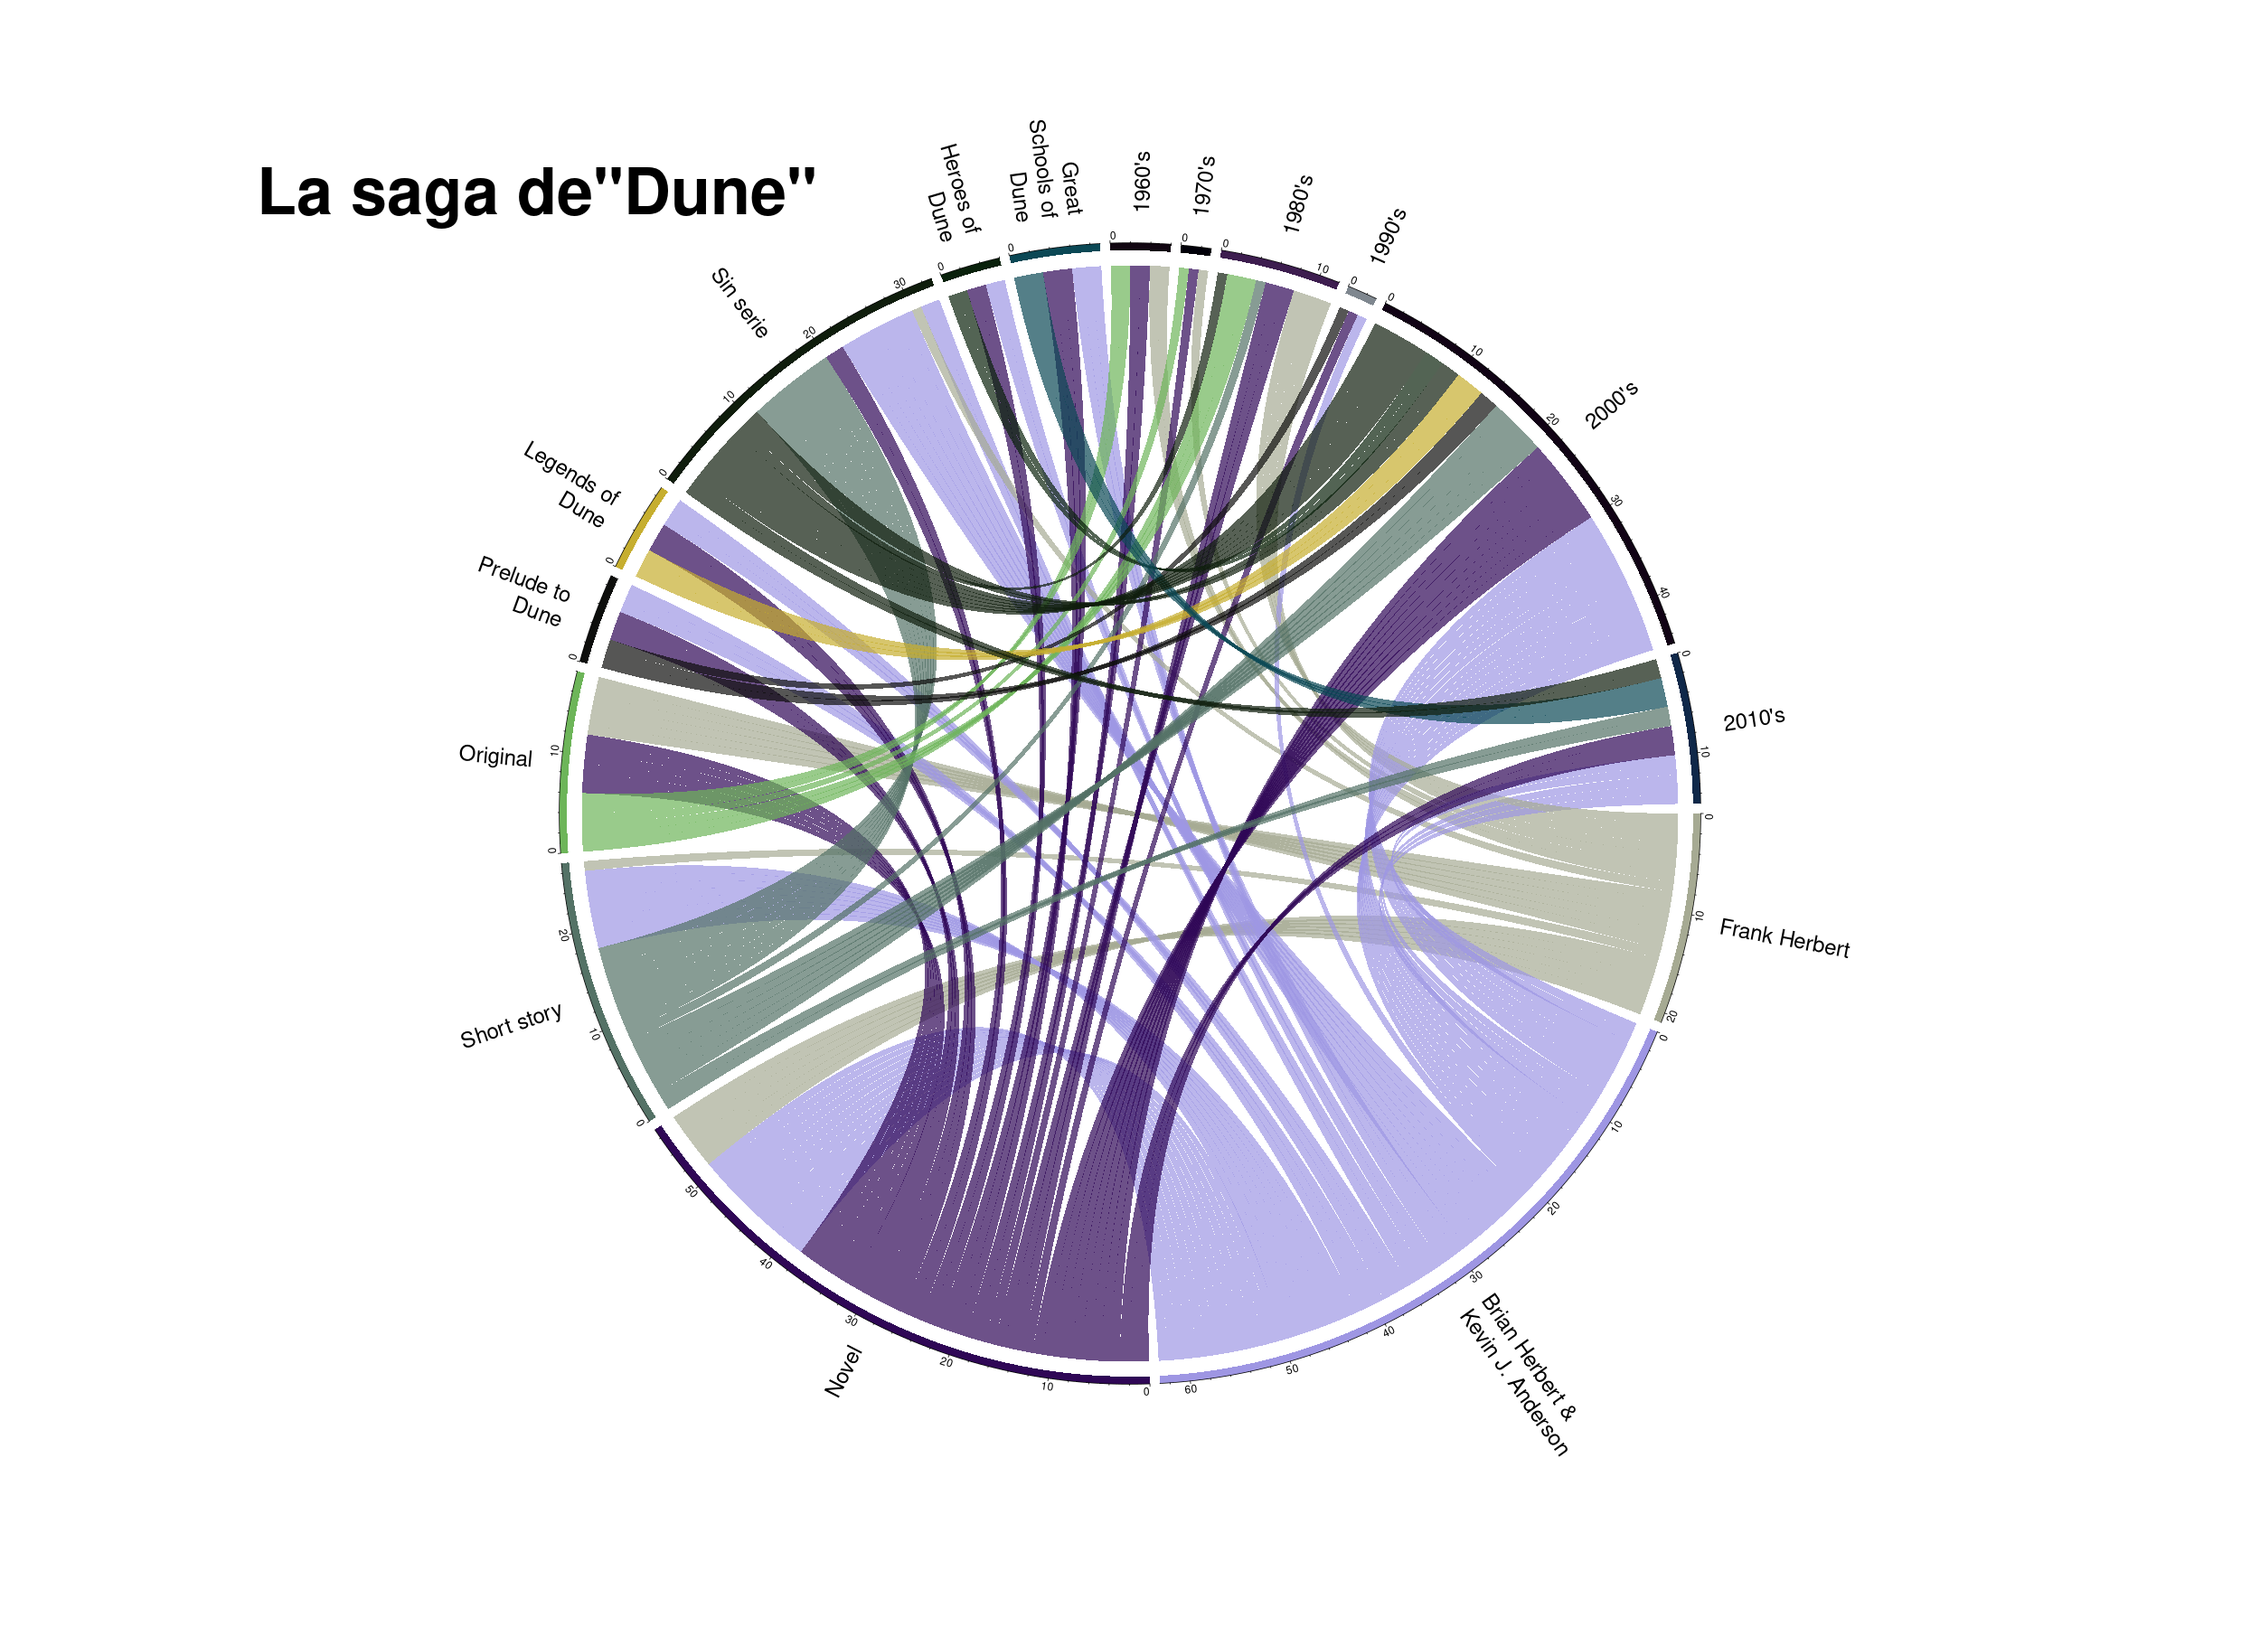
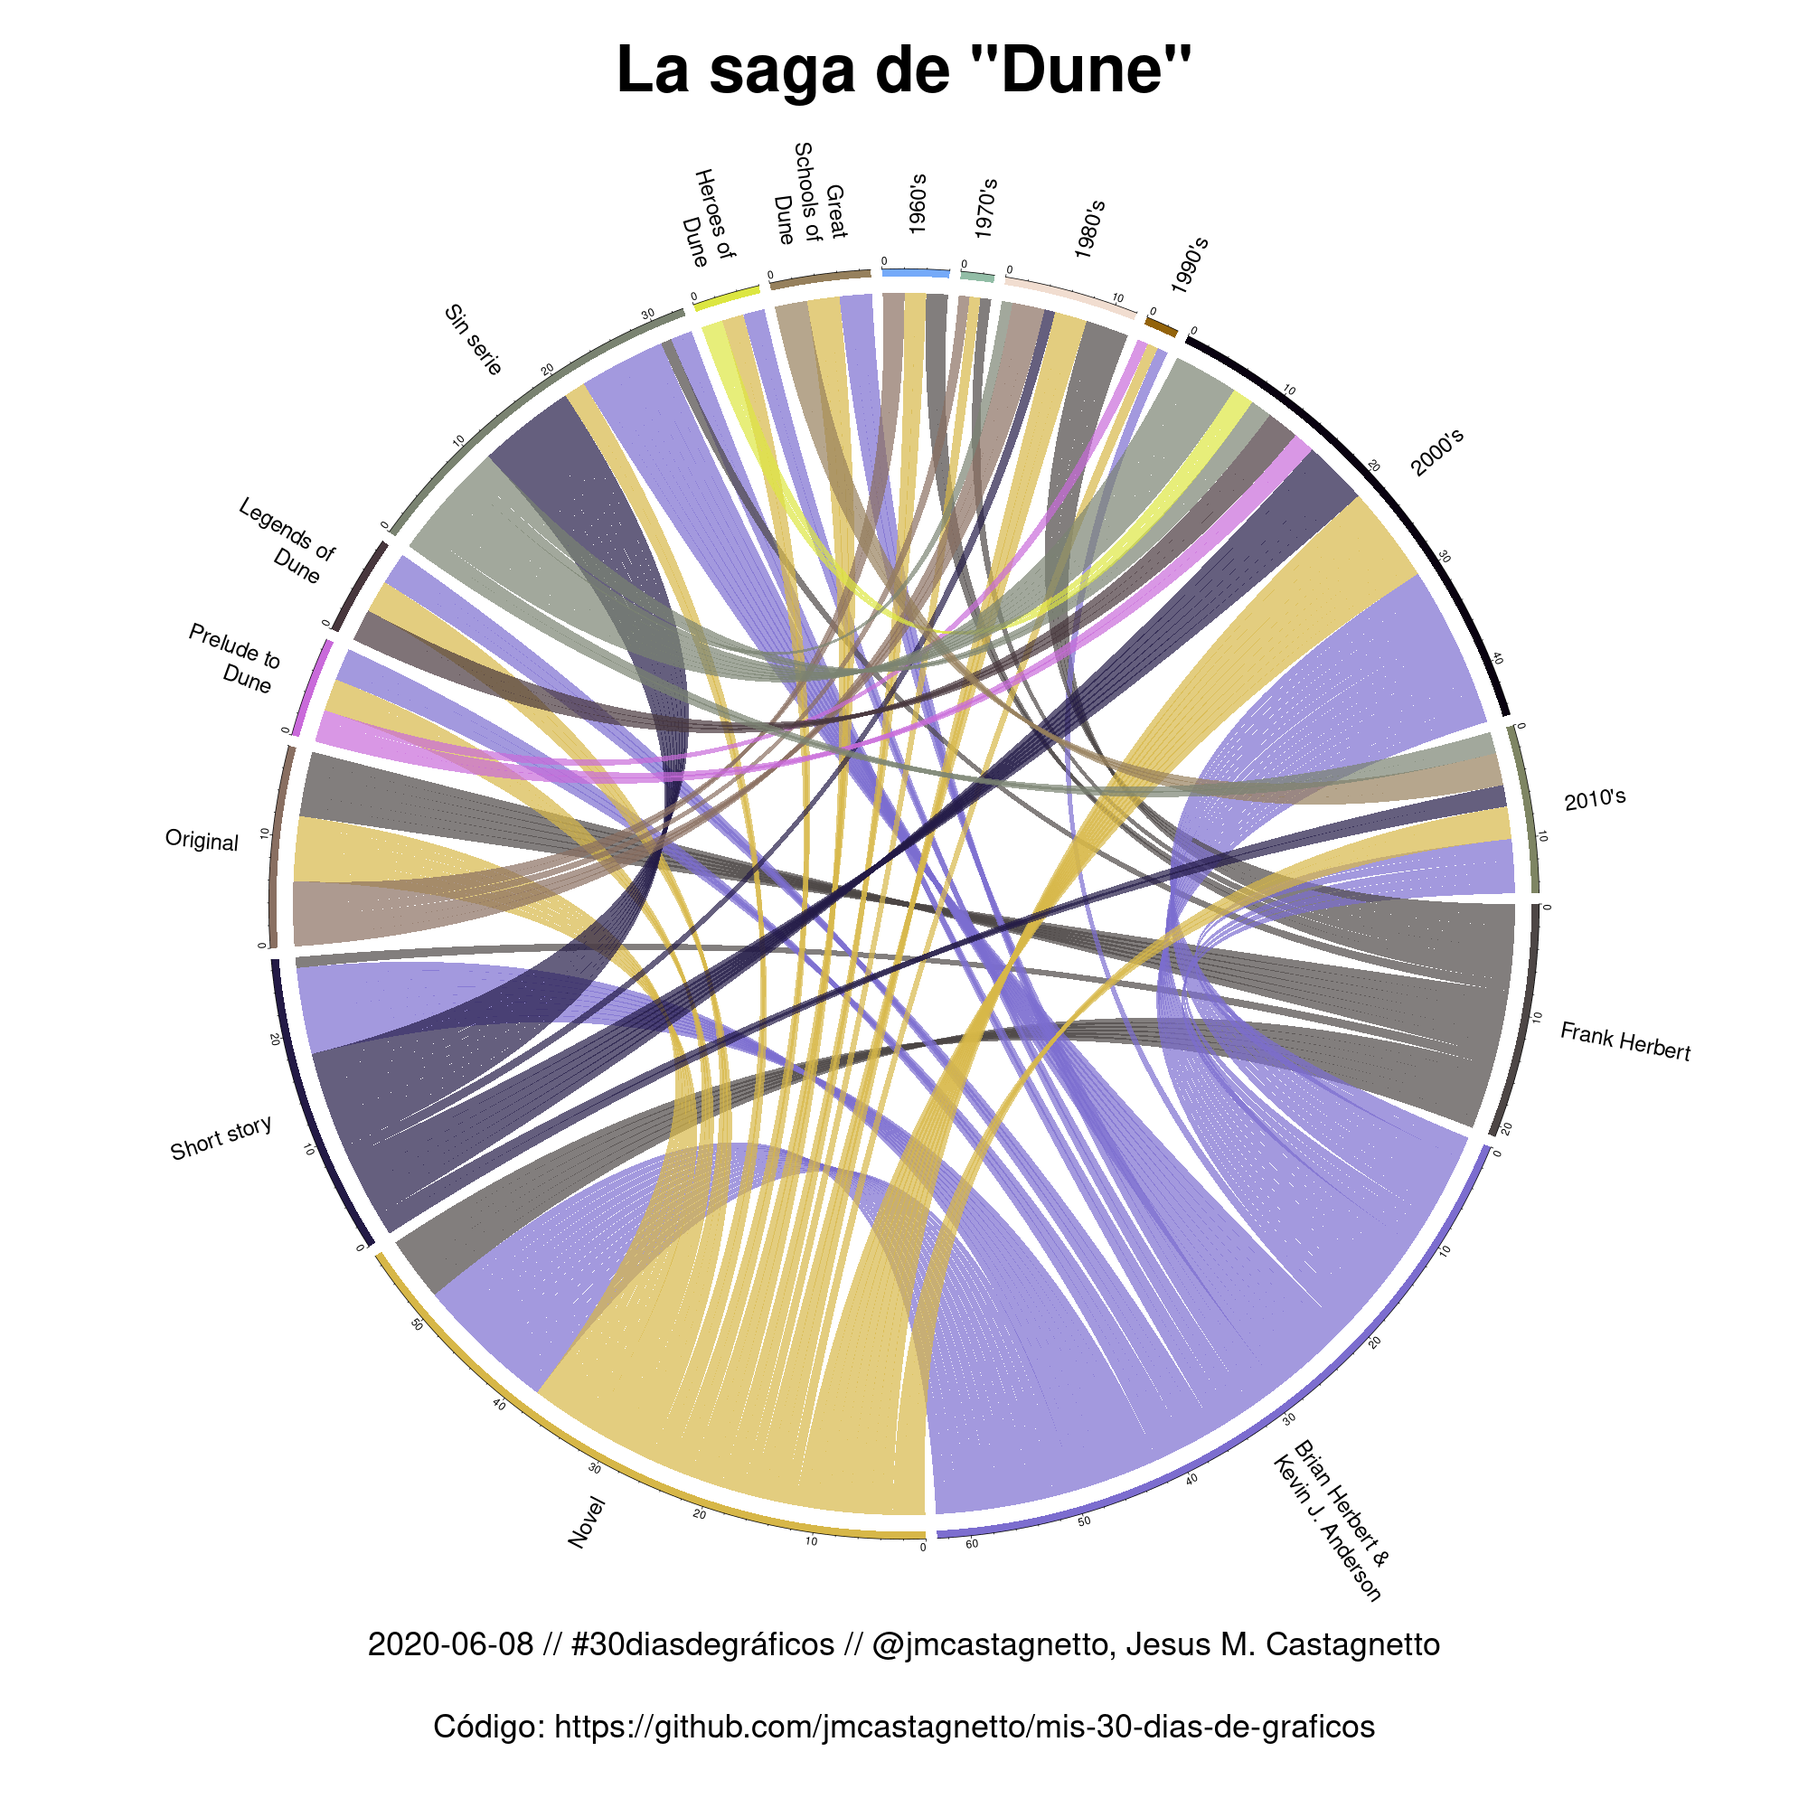
versión final del diagrama de cuerdas

diff --git a/README.md b/README.md
@@ -30,7 +30,7 @@ Mis contribuciones a los "30 días de gráficos" del 2020 (https://github.com/ci
 |  [:heavy_check_mark:]  | 25 | 5 de junio | gráficos de violín :violin:
 |  [:heavy_check_mark:]  | 26 | 6 de junio | diagramas de marimekko
 |  [:heavy_check_mark:]  | 27 | 7 de junio | ¡gráficos animados!
-|  [ ]  | 28 | 8 de junio | diagramas de cuerdas
+|  [:heavy_check_mark:]  | 28 | 8 de junio | diagramas de cuerdas
 |  [ ]  | 29 | 9 de junio | gráficos de coordenadas paralelas
 |  [ ]  | 30 | 10 de junio | diagramas de área polar o de :star:Florence Nightingale:star:
 
